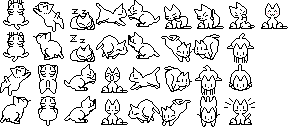
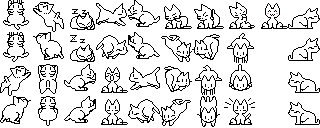
Let visitors feed the hero cat
A food bowl now sits on the hero divider past the ball. Clicking it
fills it with kibble: the cat gives a beat of "!", runs over and eats it
down from full to half to empty, then sits back up beside the bowl with
the happy face and a heart.

The eating frames are a new tenth column in oneko.png: a side-on half
crouch drawn after the pawing pose, head down in the bowl and then lifted
to chew, mirrored for coming from the right. The bowl is a smooth SVG in
the ball's style, with a fishbone on the front and its three fill levels
side by side in bowl.svg.

Food beats the ball: feeding interrupts play, and a cat called away
mid-meal goes back for the leftovers once it settles. The ball coasts on
past the bowl and the spots the cat eats from instead of stopping there.
Playing and eating share runTo, spotBeside and settleContent.

Changed region(s): [[0.0, 0.0, 1.0, 1.0]]

diff --git a/script.js b/script.js
@@ -676,8 +676,9 @@ document.querySelectorAll("[data-rp-group]").forEach((group) => {
   const widget = document.querySelector("[data-oneko-divider]");
   const cat = document.querySelector("[data-oneko-cat]");
   const ball = document.querySelector("[data-oneko-ball]");
+  const bowl = document.querySelector("[data-oneko-bowl]");
 
-  if (!widget || !cat || !ball) return;
+  if (!widget || !cat || !ball || !bowl) return;
 
   const heart = document.createElement("span");
   heart.className = "oneko-heart";
@@ -688,6 +689,11 @@ document.querySelectorAll("[data-rp-group]").forEach((group) => {
   const catSize = 40;
   const spriteFrameSize = 40;
   const ballSize = 16;
+  const bowlWidth = 36;
+  // How far either side of the bowl the cat takes up while it eats.
+  const mealRoom = 38;
+  // bowl.svg holds the bowl empty, half full and full, in that order.
+  const bowlFull = 2;
   const spriteSets = {
     idle: [[-3, -3]],
     // Closed ^ ^ eyes, a little smile and blush, for after it has played.
@@ -721,6 +727,16 @@ document.querySelectorAll("[data-rp-group]").forEach((group) => {
       [-4, -2],
       [-4, -3],
     ],
+    // Half crouched side-on with its head in the bowl, then lifted to chew.
+    // A tenth column, drawn after the pawing pose above and mirrored for west.
+    eatE: [
+      [-9, 0],
+      [-9, -1],
+    ],
+    eatW: [
+      [-9, -2],
+      [-9, -3],
+    ],
   };
 
   const state = {
@@ -734,7 +750,10 @@ document.querySelectorAll("[data-rp-group]").forEach((group) => {
     bounces: 0,
     launched: false,
     ballResting: true,
+    bowlX: 0,
+    bowlLevel: 0,
     catMode: "idle",
+    afterAlert: "chasing",
     pauseUntil: 0,
     playsLeft: 0,
     lastTime: performance.now(),
@@ -755,6 +774,11 @@ document.querySelectorAll("[data-rp-group]").forEach((group) => {
     cat.style.backgroundPosition = `${sprite[0] * spriteFrameSize}px ${
       sprite[1] * spriteFrameSize
     }px`;
+  }
+
+  function setBowlLevel(level) {
+    state.bowlLevel = level;
+    bowl.style.backgroundPosition = `${-level * bowlWidth}px 0`;
   }
 
   function positionElements() {
@@ -786,10 +810,17 @@ document.querySelectorAll("[data-rp-group]").forEach((group) => {
       // Far enough from the cat that its walk over to play reads clearly.
       state.ballX = clamp(state.homeX + 120, 0, state.width - ballSize);
       state.ballY = 0;
+      // The bowl sits as far again past the ball.
+      state.bowlX = state.homeX + 240;
       state.initialBallPlaced = true;
     } else {
       state.ballX = clamp(state.ballX, 0, state.width - ballSize);
     }
+
+    state.bowlX = clamp(state.bowlX, 0, state.width - bowlWidth);
+    bowl.style.transform = `translate3d(${Math.round(state.bowlX)}px, 0, 0)`;
+    // The bowl may have moved under the cat; have it find its place again.
+    if (state.catMode === "eating") state.catMode = "toBowl";
 
     positionElements();
   }
@@ -868,18 +899,25 @@ document.querySelectorAll("[data-rp-group]").forEach((group) => {
 
     state.ballX += state.ballVX * dt;
     bounceOffWalls();
-    const speed = Math.abs(state.ballVX) - 420 * dt;
+    // Coast on past the bowl and the spots the cat eats from, rather than
+    // stopping in front of either.
+    const nearBowl =
+      state.ballX + ballSize > state.bowlX - mealRoom &&
+      state.ballX < state.bowlX + bowlWidth + mealRoom;
+    const speed = nearBowl
+      ? Math.max(Math.abs(state.ballVX), 120)
+      : Math.abs(state.ballVX) - 420 * dt;
     state.ballVX = speed > 6 ? Math.sign(state.ballVX) * speed : 0;
     if (state.ballVX === 0) state.ballResting = true;
   }
 
-  // Where the cat stands to play: beside the ball with its paw just over it,
-  // on the side it's coming from (or the other side if that's off the line).
-  function playSpot() {
-    const reach = 10;
+  // Where the cat stands to use something on the line: beside it and
+  // overlapping it by `reach`, on the side it's coming from (or the other
+  // side if that's off the line).
+  function spotBeside(targetX, targetSize, reach) {
     const spotFor = (side) =>
-      side < 0 ? state.ballX - catSize + reach : state.ballX + ballSize - reach;
-    let side = state.catX + catSize / 2 <= state.ballX + ballSize / 2 ? -1 : 1;
+      side < 0 ? targetX - catSize + reach : targetX + targetSize - reach;
+    let side = state.catX + catSize / 2 <= targetX + targetSize / 2 ? -1 : 1;
     let x = spotFor(side);
 
     if (x < 0 || x > state.width - catSize) {
@@ -888,6 +926,16 @@ document.querySelectorAll("[data-rp-group]").forEach((group) => {
     }
 
     return { side, x: clamp(x, 0, state.width - catSize) };
+  }
+
+  // To play: with its paw just over the ball.
+  function playSpot() {
+    return spotBeside(state.ballX, ballSize, 10);
+  }
+
+  // To eat: with its head over the food.
+  function eatSpot() {
+    return spotBeside(state.bowlX, bowlWidth, 11);
   }
 
   function batBall(direction) {
@@ -900,15 +948,48 @@ document.querySelectorAll("[data-rp-group]").forEach((group) => {
     state.catMode = "chasing";
   }
 
+  // Runs the cat toward x; false once it's there.
+  function runTo(x, dt, now) {
+    const speed = 280;
+    const step = clamp(x - state.catX, -speed * dt, speed * dt);
+    state.catX += step;
+
+    if (Math.abs(step) <= 0.5) return false;
+
+    if (now - state.lastSpriteAt > 120) {
+      state.lastSpriteAt = now;
+      state.walkFrame += 1;
+      setSprite(step > 0 ? "E" : "W", state.walkFrame);
+    }
+    return true;
+  }
+
+  // A satisfied smile and a little heart.
+  function settleContent(now) {
+    state.catMode = "content";
+    state.pauseUntil = now + 1800;
+    setSprite("happy", 0);
+    heart.style.left = `${Math.round(state.catX + 22)}px`;
+    heart.classList.remove("is-floating");
+    void heart.offsetWidth;
+    heart.classList.add("is-floating");
+  }
+
   function stepCat(dt, now) {
     if (state.catMode === "idle") {
+      // Food left over from being called away mid-meal: go back for it.
+      if (state.bowlLevel > 0) {
+        state.catMode = "toBowl";
+        resetIdleAnimation();
+        return;
+      }
       runIdleSprite(now);
       return;
     }
 
     if (state.catMode === "alert") {
       setSprite("alert", 0);
-      if (now >= state.pauseUntil) state.catMode = "chasing";
+      if (now >= state.pauseUntil) state.catMode = state.afterAlert;
       return;
     }
 
@@ -918,6 +999,34 @@ document.querySelectorAll("[data-rp-group]").forEach((group) => {
         state.homeX = state.catX;
         state.catMode = "idle";
         resetIdleAnimation();
+      }
+      return;
+    }
+
+    if (state.catMode === "toBowl") {
+      if (runTo(eatSpot().x, dt, now)) return;
+      state.catMode = "eating";
+      state.pauseUntil = now + 1200;
+      state.lastSpriteAt = 0;
+      return;
+    }
+
+    if (state.catMode === "eating") {
+      if (now - state.lastSpriteAt > 200) {
+        state.lastSpriteAt = now;
+        state.walkFrame += 1;
+        setSprite(eatSpot().side < 0 ? "eatE" : "eatW", state.walkFrame);
+      }
+      // The food goes down a level at a time; an empty bowl ends the meal.
+      if (now >= state.pauseUntil) {
+        setBowlLevel(state.bowlLevel - 1);
+        if (state.bowlLevel > 0) {
+          state.pauseUntil = now + 1200;
+        } else {
+          // Sit back up beside the bowl rather than half behind it.
+          state.catX = spotBeside(state.bowlX, bowlWidth, 4).x;
+          settleContent(now);
+        }
       }
       return;
     }
@@ -935,19 +1044,7 @@ document.querySelectorAll("[data-rp-group]").forEach((group) => {
     }
 
     // Chasing: run to the ball, then paw at it a few times before settling.
-    const speed = 280;
-    const distance = spot.x - state.catX;
-    const step = clamp(distance, -speed * dt, speed * dt);
-    state.catX += step;
-
-    if (Math.abs(step) > 0.5) {
-      if (now - state.lastSpriteAt > 120) {
-        state.lastSpriteAt = now;
-        state.walkFrame += 1;
-        setSprite(step > 0 ? "E" : "W", state.walkFrame);
-      }
-      return;
-    }
+    if (runTo(spot.x, dt, now)) return;
 
     if (!state.ballResting) {
       setSprite("idle", 0);
@@ -959,14 +1056,7 @@ document.querySelectorAll("[data-rp-group]").forEach((group) => {
       state.pauseUntil = now + 450 + Math.random() * 350;
       state.lastSpriteAt = 0;
     } else {
-      // Done playing: a satisfied smile and a little heart.
-      state.catMode = "content";
-      state.pauseUntil = now + 1800;
-      setSprite("happy", 0);
-      heart.style.left = `${Math.round(state.catX + 22)}px`;
-      heart.classList.remove("is-floating");
-      void heart.offsetWidth;
-      heart.classList.add("is-floating");
+      settleContent(now);
     }
   }
 
@@ -998,8 +1088,26 @@ document.querySelectorAll("[data-rp-group]").forEach((group) => {
     state.ballVY = 560 + Math.random() * 110;
     // React to the throw rather than anticipate it: a beat of "!" first.
     state.catMode = "alert";
+    state.afterAlert = "chasing";
     state.pauseUntil = performance.now() + 400;
     state.playsLeft = 1;
+    resetIdleAnimation();
+  }
+
+  function fillBowl() {
+    if (reduceMotion.matches) {
+      return;
+    }
+
+    setBowlLevel(bowlFull);
+    // Already on its way or eating: a refill just keeps it there longer.
+    if (state.catMode === "toBowl" || state.catMode === "eating") return;
+
+    // Food beats the ball: a beat of "!", then it drops everything to eat.
+    state.catMode = "alert";
+    state.afterAlert = "toBowl";
+    state.pauseUntil = performance.now() + 400;
+    state.playsLeft = 0;
     resetIdleAnimation();
   }
 
@@ -1026,6 +1134,7 @@ document.querySelectorAll("[data-rp-group]").forEach((group) => {
   }
 
   ball.addEventListener("click", launchBall);
+  bowl.addEventListener("click", fillBowl);
   window.addEventListener("resize", measure);
 
   measure();

diff --git a/styles.css b/styles.css
@@ -249,7 +249,7 @@ p {
   left: 0;
   width: 40px;
   height: 40px;
-  background: url("assets/oneko/oneko.png") 0 0 / 360px 160px no-repeat;
+  background: url("assets/oneko/oneko.png") 0 0 / 400px 160px no-repeat;
   image-rendering: pixelated;
   pointer-events: none;
   transform: translate3d(0, 0, 0);
@@ -304,7 +304,29 @@ p {
   transform: translate3d(0, 0, 0);
 }
 
-.oneko-ball:focus-visible {
+.oneko-bowl {
+  position: absolute;
+  top: calc(var(--oneko-line-y) - 22px);
+  left: 0;
+  width: 36px;
+  height: 22px;
+  padding: 0;
+  border: 0;
+  background: url("assets/oneko/bowl.svg") 0 0 / 108px 22px no-repeat;
+  cursor: pointer;
+  pointer-events: auto;
+  transform: translate3d(0, 0, 0);
+}
+
+/* A more forgiving click and tap target than the bowl's own outline. */
+.oneko-bowl::after {
+  position: absolute;
+  inset: -6px;
+  content: "";
+}
+
+.oneko-ball:focus-visible,
+.oneko-bowl:focus-visible {
   outline: 1px solid var(--color-text);
   outline-offset: 4px;
 }

diff --git a/index.html b/index.html
@@ -126,9 +126,15 @@
           <div
             class="oneko-divider-widget"
             data-oneko-divider
-            aria-label="Interactive cat and ball divider"
+            aria-label="Interactive cat, ball and food bowl divider"
           >
             <div class="oneko-cat" data-oneko-cat aria-hidden="true"></div>
+            <button
+              class="oneko-bowl"
+              type="button"
+              data-oneko-bowl
+              aria-label="Fill the bowl to feed the cat"
+            ></button>
             <button
               class="oneko-ball"
               type="button"
